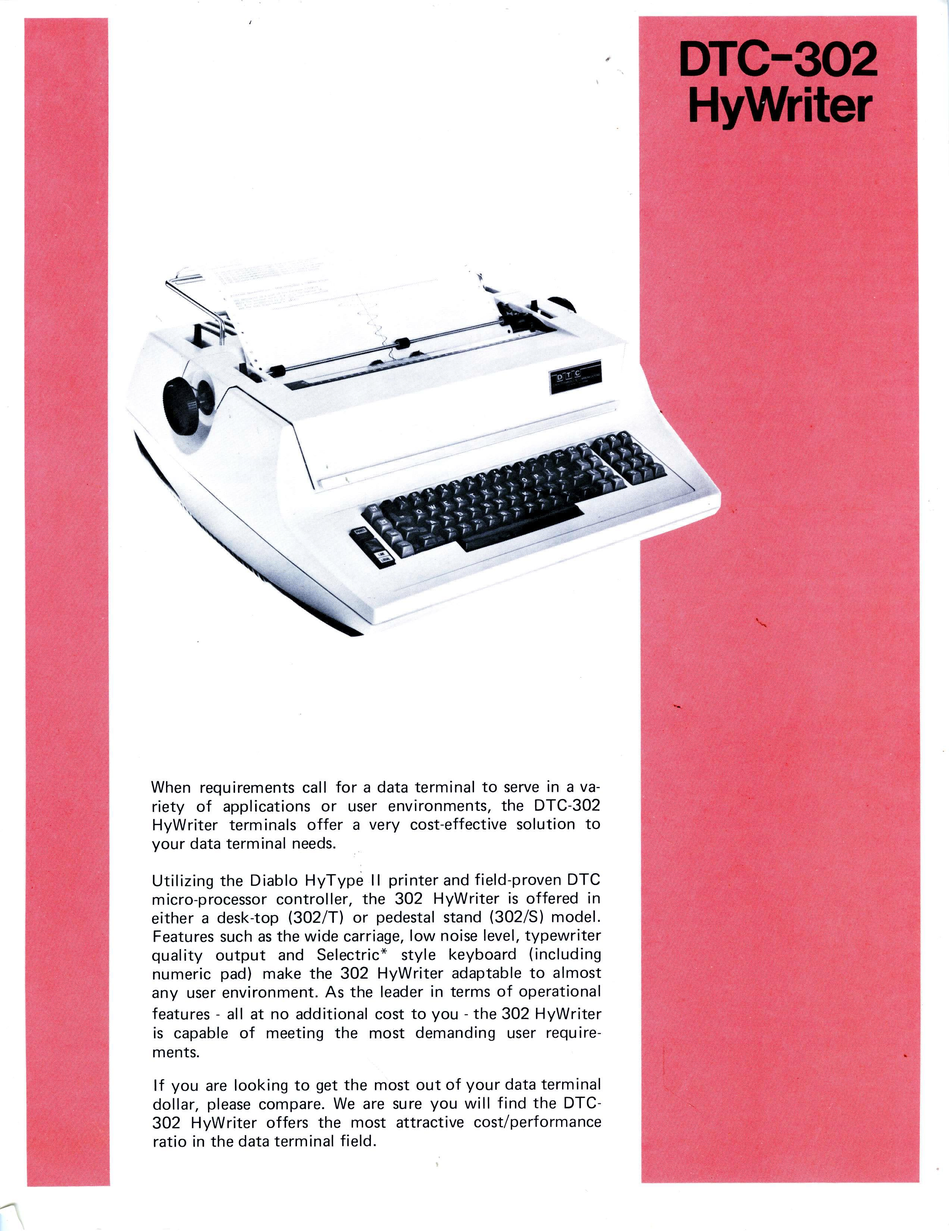
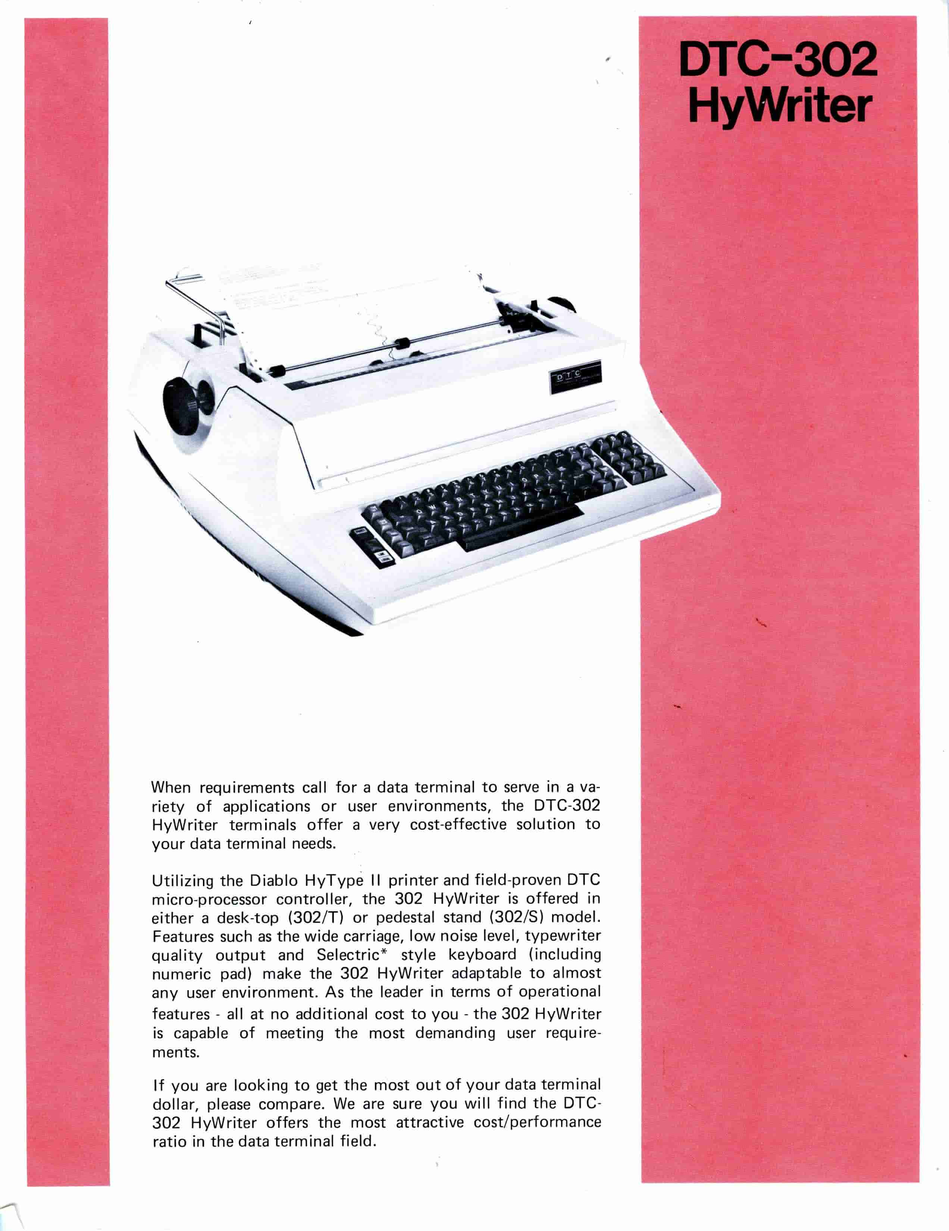
Compress image file, minor rewrites

diff --git a/index.html b/index.html
@@ -49,6 +49,14 @@
     <h3>Git</h3>
     <ul>
       <li><a href="https://git-scm.com/book/en/v2"> Pro Git </a></li>
+    </ul>
+
+    <h3>Similar Projects (That Are Way Bigger Than Mine)</h3>
+    <ul>
+      <li><a href="https://todogroup.org/guides/"> The TODO Group </a></li>
+      <li><a href="https://www.linuxfoundation.org/resources/open-source-guides/"> The Linux Foundation </a></li>
+      <li><a href="http://tldp.org/"> The Linux Documentation Project </a></li>
+    </ul>
 
   </div>
 

diff --git a/tty/tty.html b/tty/tty.html
@@ -217,7 +217,6 @@
       <li> In each, confirm that <tt>tty</tt> exists, and is a character device</li>
       <li> In each, confirm that writing to <tt>tty</tt> does not write to the other
         <br>&emsp;&emsp; For example, <tt>sleep 5; echo hello</tt> </li>
-
     </ol>
 
 
